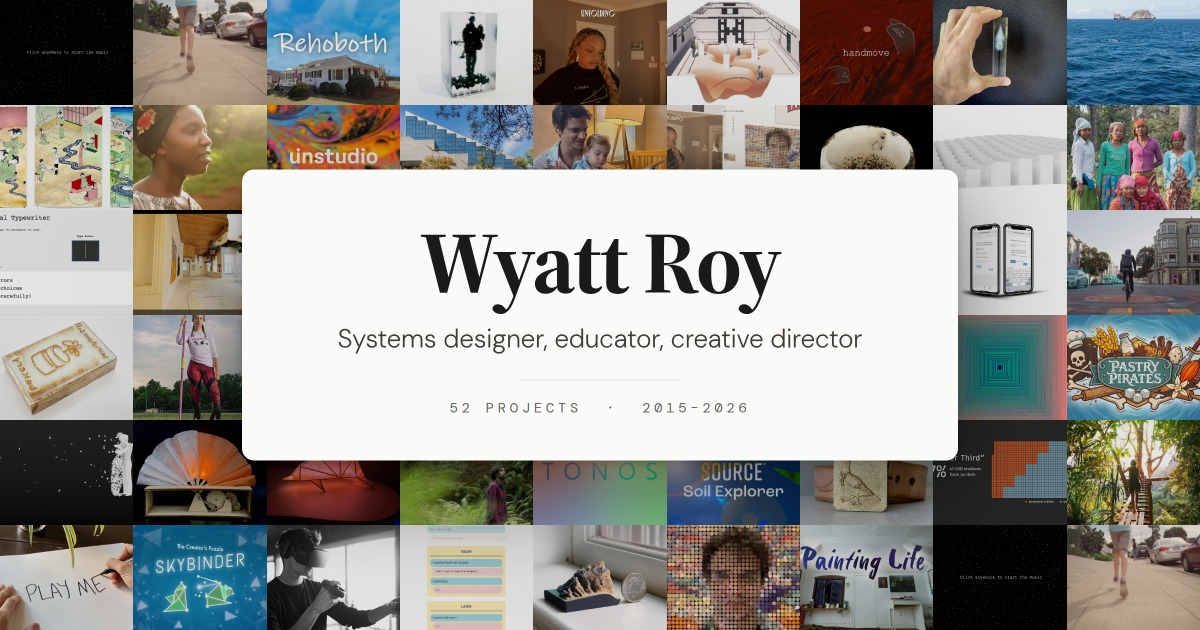
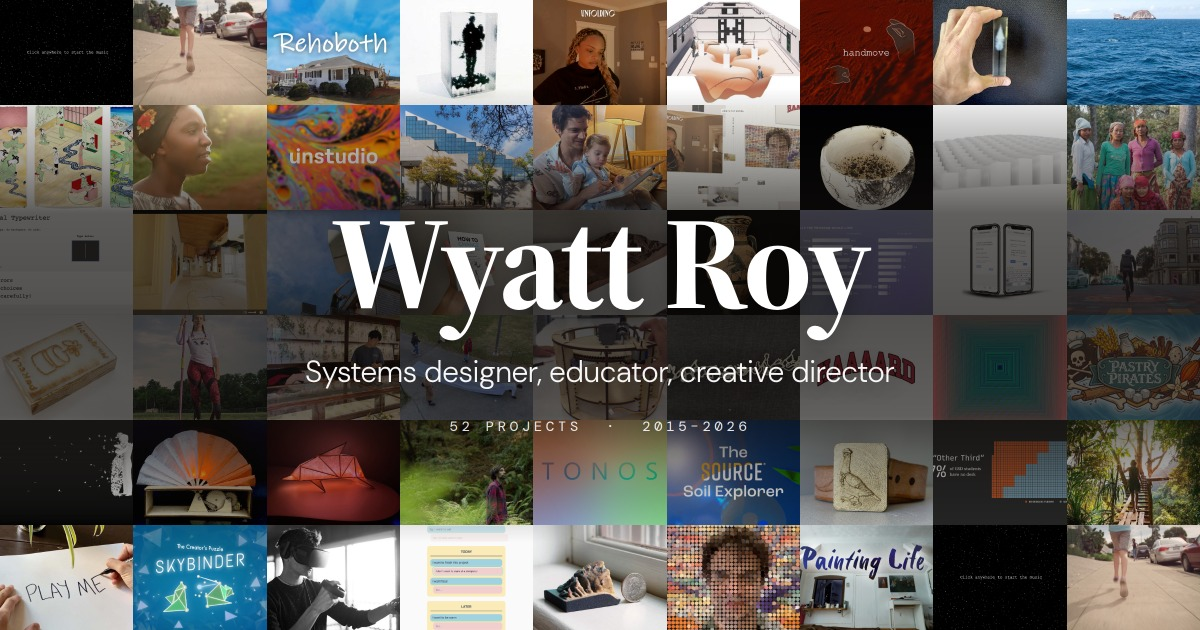
Use the scrim version of the mosaic preview
Wyatt picked the middle of the three plate-less options. B2 is now the
mosaic with "Wyatt Roy" in white over a scrim that crosses the middle
third, so the top and bottom rows of thumbnails stay at full strength.
The plate version and the two other scrim treatments are dropped; they
are in this branch's history if the call changes.

Alt text on both pages updated to describe what the image now is.

Claude-Session: https://claude.ai/code/session_01P6wGxzv3EG9qPBrKSB4tYK

diff --git a/about.html b/about.html
@@ -13,7 +13,7 @@
   <meta property="og:image" content="https://wyattroy.com/assets/og/preview.jpg">
   <meta property="og:image:width" content="1200">
   <meta property="og:image:height" content="630">
-  <meta property="og:image:alt" content="A grid of 52 project thumbnails behind a card reading Wyatt Roy, systems designer, educator, creative director.">
+  <meta property="og:image:alt" content="A grid of 52 project thumbnails with Wyatt Roy, systems designer, educator, creative director, in white across the middle.">
   <meta name="twitter:card" content="summary_large_image">
   <meta name="twitter:title" content="About — Wyatt Roy">
   <meta name="twitter:description" content="Systems designer, educator, and creative director working across interdisciplinary media.">

diff --git a/index.html b/index.html
@@ -12,7 +12,7 @@
   <meta property="og:image" content="https://wyattroy.com/assets/og/preview.jpg">
   <meta property="og:image:width" content="1200">
   <meta property="og:image:height" content="630">
-  <meta property="og:image:alt" content="A grid of 52 project thumbnails behind a card reading Wyatt Roy, systems designer, educator, creative director.">
+  <meta property="og:image:alt" content="A grid of 52 project thumbnails with Wyatt Roy, systems designer, educator, creative director, in white across the middle.">
   <meta name="twitter:card" content="summary_large_image">
   <meta name="twitter:title" content="Wyatt Roy">
   <meta name="twitter:description" content="Systems designer, educator, and creative director working across interdisciplinary media.">
